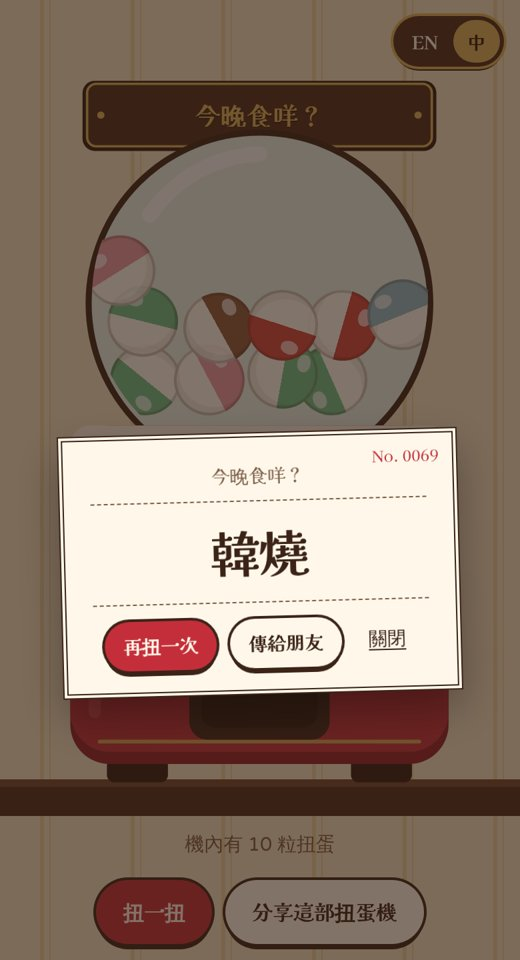
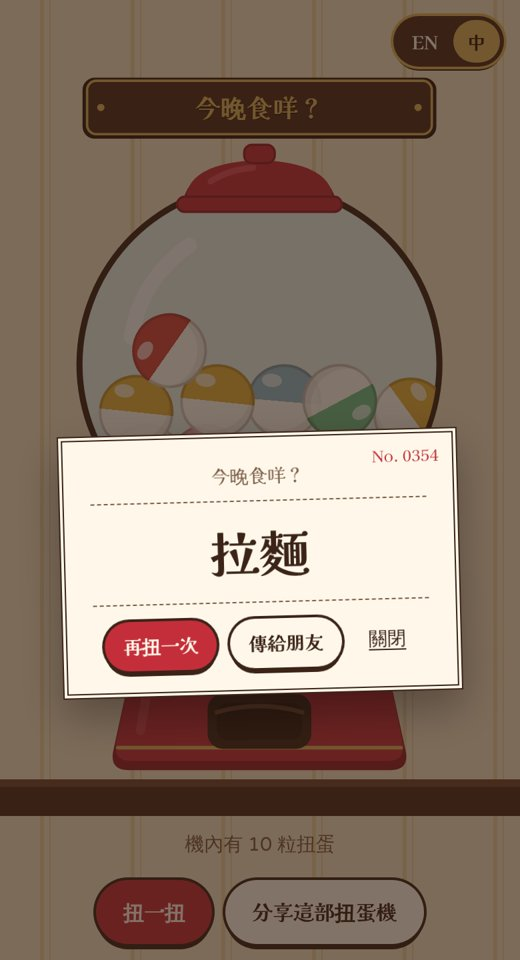
Classic retro machine proportions: big glass globe, lid, collar and a tapered base

Changed region(s): [[0.1231, 0.0625, 0.8615, 0.5], [0.1231, 0.7188, 0.8615, 0.8125], [0.4, 0.5312, 0.6154, 0.625]]

diff --git a/index.html b/index.html
@@ -48,13 +48,13 @@ button { cursor: pointer; }
 .machine-wrap { width: min(360px, 88vw); }
 .machine { position: relative; width: 100%; aspect-ratio: 300 / 486; user-select: none; }
 .machine svg { position: absolute; inset: 0; width: 100%; height: 100%; overflow: visible; }
-.sign { position: absolute; left: 14%; right: 14%; top: 1.2%; height: 8.4%; display: grid; place-items: center;
+.sign { position: absolute; left: 14%; right: 14%; top: 0.8%; height: 7.2%; display: grid; place-items: center;
   font-family: var(--deco); font-weight: 700; color: var(--gold); font-size: clamp(15px, 4.8vw, 20px); line-height: 1; letter-spacing: .04em;
   white-space: nowrap; overflow: hidden; padding: 0 12px; text-shadow: 0 1px 0 var(--wood-dark); }
 .sign span { overflow: hidden; text-overflow: ellipsis; max-width: 100%; }
 
-.dome-clip { position: absolute; left: 13.3%; width: 73.4%; top: 7.4%; height: 40%; overflow: hidden; }
-.dome { position: absolute; left: 0; top: 0; width: 100%; aspect-ratio: 1; border-radius: 50%; overflow: hidden; }
+.dome-clip { position: absolute; left: 11.33%; width: 77.33%; top: 18.1%; height: 40.7%; overflow: hidden; }
+.dome { position: absolute; left: 0; top: -7.07%; width: 100%; aspect-ratio: 1; border-radius: 50%; overflow: hidden; }
 .cap { position: absolute; border-radius: 50%; transform: translate(-50%, -50%) rotate(var(--r, 0deg));
   background: linear-gradient(to bottom, var(--c) 0 50%, rgba(255,250,240,.9) 50% 100%);
   box-shadow: inset 0 0 0 2px rgba(59,35,24,.22), inset -4px -6px 0 rgba(0,0,0,.06); }
@@ -65,9 +65,9 @@ button { cursor: pointer; }
 @keyframes jiggle { to { transform: translate(calc(-50% + 3px), calc(-50% - 5px)) rotate(calc(var(--r) + 14deg)); } }
 
 #knob { transform-box: fill-box; transform-origin: center; }
-.knob-hit { position: absolute; left: 33%; top: 56.8%; width: 34%; aspect-ratio: 1; border-radius: 50%; border: 0; background: transparent; }
+.knob-hit { position: absolute; left: 36.7%; top: 66.7%; width: 26.7%; aspect-ratio: 1; border-radius: 50%; border: 0; background: transparent; }
 
-.chute-cap { position: absolute; width: 15%; aspect-ratio: 1; left: 42.5%; top: 79.9%; border: 0; padding: 0; border-radius: 50%;
+.chute-cap { position: absolute; width: 12%; aspect-ratio: 1; left: 44%; top: 84.4%; border: 0; padding: 0; border-radius: 50%;
   background: linear-gradient(to bottom, var(--c) 0 50%, rgba(255,250,240,.95) 50% 100%);
   box-shadow: inset 0 0 0 2px rgba(59,35,24,.25), 0 3px 0 rgba(0,0,0,.2); display: none; }
 .chute-cap.ready { display: block; animation: bob 1.1s ease-in-out infinite; }
@@ -168,43 +168,45 @@ button { cursor: pointer; }
         <!-- counter -->
         <rect x="-30" y="462" width="360" height="24" rx="4" fill="#4A2C1D"/>
         <rect x="-30" y="462" width="360" height="5" fill="#6B4430"/>
-        <!-- feet -->
-        <rect x="50" y="448" width="40" height="16" rx="5" fill="#2E1A10"/>
-        <rect x="210" y="448" width="40" height="16" rx="5" fill="#2E1A10"/>
         <!-- wooden sign with gold rim -->
-        <rect x="34" y="4" width="232" height="46" rx="8" fill="#2E1A10"/>
-        <rect x="37" y="6" width="226" height="41" rx="6" fill="#4A2C1D" stroke="#D9B25B" stroke-width="1.6"/>
-        <circle cx="46" cy="26.5" r="2.4" fill="#D9B25B"/><circle cx="254" cy="26.5" r="2.4" fill="#D9B25B"/>
-        <!-- dome -->
-        <circle cx="150" cy="150" r="114" fill="#3B2318"/>
-        <circle cx="150" cy="150" r="110" fill="#E3F2EC"/>
-        <!-- body: red retro machine -->
-        <rect x="26" y="236" width="248" height="216" rx="26" fill="#8E1F2A"/>
-        <rect x="26" y="230" width="248" height="214" rx="26" fill="#C42E3A"/>
-        <!-- cream band with gold pinstripes and rivets -->
-        <rect x="26" y="230" width="248" height="26" rx="13" fill="#FFF8EA"/>
-        <rect x="26" y="248" width="248" height="8" fill="#FFF8EA"/>
-        <rect x="26" y="258" width="248" height="2.5" fill="#D9B25B"/>
-        <rect x="44" y="436" width="212" height="2.5" rx="1.2" fill="#D9B25B" opacity=".9"/>
-        <circle cx="44" cy="243" r="3" fill="#D9B25B"/><circle cx="256" cy="243" r="3" fill="#D9B25B"/>
-        <!-- side shine -->
-        <rect x="38" y="272" width="8" height="150" rx="4" fill="#E25B66" opacity=".55"/>
+        <rect x="34" y="2" width="232" height="40" rx="8" fill="#2E1A10"/>
+        <rect x="37" y="4" width="226" height="35" rx="6" fill="#4A2C1D" stroke="#D9B25B" stroke-width="1.6"/>
+        <circle cx="46" cy="21.5" r="2.4" fill="#D9B25B"/><circle cx="254" cy="21.5" r="2.4" fill="#D9B25B"/>
+        <!-- glass globe -->
+        <circle cx="150" cy="190" r="120" fill="#3B2318"/>
+        <circle cx="150" cy="190" r="116" fill="#E3F2EC"/>
+        <!-- base: short, tapered, wider at the bottom -->
+        <path d="M84 306 H216 L246 444 Q248 456 236 456 H64 Q52 456 54 444 Z" fill="#8E1F2A"/>
+        <path d="M84 300 H216 L244 438 Q246 450 234 450 H66 Q54 450 56 438 Z" fill="#C42E3A"/>
+        <path d="M92 312 L72 430" stroke="#E25B66" stroke-width="6" stroke-linecap="round" opacity=".5"/>
+        <rect x="56" y="440" width="188" height="2.4" rx="1.2" fill="#D9B25B"/>
+        <!-- collar ring under the globe -->
+        <rect x="76" y="290" width="148" height="20" rx="8" fill="#8E1F2A"/>
+        <rect x="76" y="286" width="148" height="20" rx="8" fill="#C42E3A"/>
+        <rect x="84" y="292" width="132" height="2.4" rx="1.2" fill="#D9B25B"/>
         <!-- coin plate -->
-        <rect x="206" y="272" width="46" height="60" rx="8" fill="#FFF8EA" stroke="#3B2318" stroke-width="2"/>
-        <rect x="226" y="281" width="6" height="24" rx="3" fill="#3B2318"/>
-        <text id="coinText" x="229" y="322" text-anchor="middle" font-family="Kaisei Decol, serif" font-weight="700" font-size="11" fill="#3B2318">free</text>
-        <!-- knob -->
+        <rect x="196" y="338" width="30" height="40" rx="6" fill="#FFF8EA" stroke="#3B2318" stroke-width="2"/>
+        <rect x="209" y="344" width="4" height="16" rx="2" fill="#3B2318"/>
+        <text id="coinText" x="211" y="372" text-anchor="middle" font-family="Kaisei Decol, serif" font-weight="700" font-size="8.5" fill="#3B2318">free</text>
+        <!-- turn handle -->
         <g id="knob">
-          <circle cx="150" cy="327" r="46" fill="#FFF8EA" stroke="#3B2318" stroke-width="4"/>
-          <circle cx="150" cy="327" r="38" fill="none" stroke="#D9B25B" stroke-width="1.5"/>
-          <rect x="107" y="317" width="86" height="20" rx="10" fill="#3B2318"/>
-          <circle cx="150" cy="327" r="9" fill="#D9B25B" stroke="#3B2318" stroke-width="2.5"/>
+          <circle cx="150" cy="364" r="34" fill="#FFF8EA" stroke="#3B2318" stroke-width="3.5"/>
+          <circle cx="150" cy="364" r="27" fill="none" stroke="#D9B25B" stroke-width="1.4"/>
+          <rect x="118" y="356" width="64" height="16" rx="8" fill="#3B2318"/>
+          <circle cx="150" cy="364" r="7" fill="#D9B25B" stroke="#3B2318" stroke-width="2"/>
         </g>
-        <!-- chute -->
-        <rect x="104" y="386" width="92" height="50" rx="12" fill="#3B2318"/>
-        <rect x="112" y="394" width="76" height="34" rx="9" fill="#2E1A10"/>
+        <!-- chute with a little flap -->
+        <rect x="116" y="406" width="68" height="36" rx="10" fill="#3B2318"/>
+        <rect x="122" y="412" width="56" height="24" rx="7" fill="#2E1A10"/>
+        <path d="M122 418 Q150 410 178 418" stroke="#6B4430" stroke-width="3" fill="none" stroke-linecap="round"/>
+        <!-- red lid on top of the globe -->
+        <path d="M100 86 Q100 60 150 58 Q200 60 200 86 Z" fill="#8E1F2A"/>
+        <path d="M102 82 Q102 58 150 56 Q198 58 198 82 Z" fill="#C42E3A"/>
+        <rect x="96" y="80" width="108" height="10" rx="5" fill="#C42E3A" stroke="#8E1F2A" stroke-width="1.5"/>
+        <rect x="140" y="46" width="20" height="12" rx="5" fill="#C42E3A" stroke="#8E1F2A" stroke-width="1.5"/>
+        <path d="M118 70 Q130 62 146 61" stroke="#E25B66" stroke-width="4" stroke-linecap="round" fill="none" opacity=".7"/>
         <!-- glass shine -->
-        <path d="M78 92 A92 92 0 0 1 150 52" stroke="#fff" stroke-width="10" stroke-linecap="round" fill="none" opacity=".8"/>
+        <path d="M66 172 A88 88 0 0 1 104 112" stroke="#fff" stroke-width="10" stroke-linecap="round" fill="none" opacity=".8"/>
       </svg>
       <div class="sign"><span id="signText">Gacha Pick</span></div>
       <div class="dome-clip"><div class="dome" id="dome"></div></div>
@@ -357,7 +359,7 @@ button { cursor: pointer; }
     const shown = Math.min(items.length, 30);
     const size = shown > 18 ? 15 : shown > 10 ? 18 : 21;     // % of dome width
     // pile them up from the floor of the visible glass, row by row
-    const FLOOR = 85, R = 50, caps = [];
+    const FLOOR = 90, R = 50, caps = [];
     const chord = (yy) => Math.sqrt(Math.max(0, R * R - (yy - R) * (yy - R)));
     let y = FLOOR - size / 2, row = 0;
     while (caps.length < shown && y > size / 2 + 4) {
@@ -439,9 +441,9 @@ button { cursor: pointer; }
     if (l.noRepeat) { l.out.push(picked); save(); renderDome(); }
     const fall = document.createElement('div');
     fall.className = 'falling'; fall.style.setProperty('--c', pickedColor);
-    Object.assign(fall.style, { width: '15%', aspectRatio: '1', left: '42.5%', top: '36%' });
+    Object.assign(fall.style, { width: '12%', aspectRatio: '1', left: '44%', top: '52%' });
     $('#machine').appendChild(fall);
-    const H = $('#machine').clientHeight, dy = (0.799 - 0.36) * H;   // from the glass floor to the chute
+    const H = $('#machine').clientHeight, dy = (0.844 - 0.52) * H;   // from the glass floor to the chute
     await fall.animate([
       { transform: 'translateY(0) rotate(0)', opacity: 1 },
       { transform: `translateY(${dy * 0.12}px) rotate(90deg)`, opacity: 0, offset: .25 },
